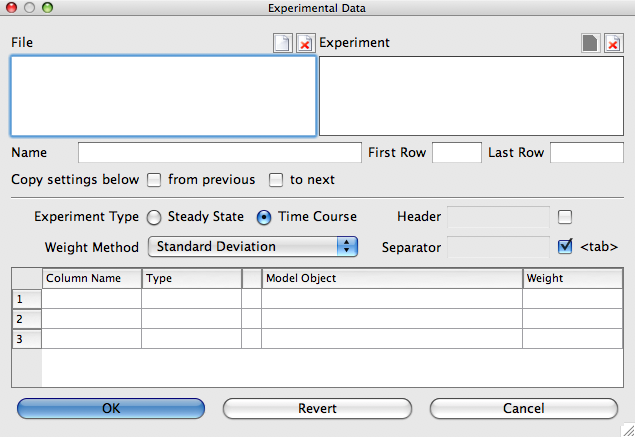
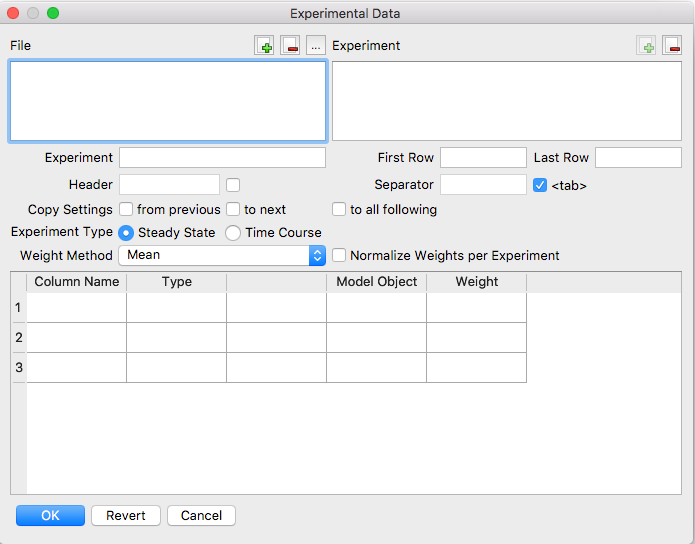
- updated parameter estimation screenshots and description

diff --git a/Support/User_Manual/Tasks/Parameter_Estimation/Experimental_Data/index.html b/Support/User_Manual/Tasks/Parameter_Estimation/Experimental_Data/index.html
@@ -4,31 +4,139 @@ title: "Experimental Data"
 structure: "User_Manual"
 ---
 
+<script src="https://polyfill.io/v3/polyfill.min.js?features=es6"></script>
+<script>
+MathJax = {
+  tex: {inlineMath: [['$', '$'], ['\\(', '\\)']]}
+};
+</script>
+<script type="text/javascript" id="MathJax-script" defer
+  src="https://cdn.jsdelivr.net/npm/mathjax@3/es5/tex-svg.js">
+</script>
+
+
 <div class="row">
   <div class="col-xs-12">
+    <p>
+    Before you can execute a parameter estimation task you need to specify the dataset which COPASI will use to fit the
+    parameters you have specified. Each experiment of your dataset contributes to the objective function with the
+    following weighted sum of squares:</p>
+    <p>
+    $$E(P)=\sum_{i,j}\omega_{j}\cdot(x_{i,j}-y_{i,j}(P))^{2}$$
+    </p>
+    <p>
+    Where $P$ is the currently tested parameter set, $x_{i,j}$ is a point in the dataset, and $y_{i,j}(P)$ the corresponding 
+    simulated value. The indices $i$ and $j$ denote rows and columns in the dataset. The weight for each data column is given 
+    by $\omega_{j}$. COPASI provides 4 methods shown in the table below
+    to calculate the weights for you. After applying the method chosen COPASI scales the weights so that for each
+    experiment the maximal occurring weight is $1$. In case that the weights calculated are not satisfactory you are able
+    to manually override them individually. To overwrite that behavior you can choose to check the 
+    <b>Normalize Weights per Experiment</b> option. </p>
 
-Before you can execute a parameter estimation task you need to specify the dataset which COPASI will use to fit the parameters you have specified. Each experiment of your dataset contributes to the objective function with the following weighted sum of squares:<br />
-<br />
-<div align="center"><img class="latex-equation" style="vertical-align: middle; position: relative; bottom: 0px; height: 31; width: 192;" src="eb78b7201ee92eb3ff71116d6f2bd4cf.png" alt="$E(P)=\sum_{i,j}\omega_{j}\cdot(x_{i,j}-y_{i,j}(P))^{2}$"></div><br />
-Where P is the currently tested parameter set, <img class="latex-equation" style="vertical-align: text-bottom; position: relative; bottom: -1px; height: 10; width: 20;" src="ed58f765f612d8bd1c29148e1379317e.png" alt="$x_{i,j}$"> is a point in the dataset, and <img class="latex-equation" style="vertical-align: text-bottom; position: relative; bottom: -1px; height: 14; width: 40;" src="4b1013af34add9d804564c43bee9fa22.png" alt="$y_{i,j}(P)$"> the corresponding simulated value. The indices <i>i</i> and <i>j</i> denote rows and columns in the dataset. The weight for each data column is given by <img class="latex-equation" style="vertical-align: text-bottom; position: relative; bottom: -1px; height: 10; width: 14;" src="04a32ea92aaa539d676e72f5c8e05a41.png" alt="$\omega_{j}$">. COPASI provides 3 methods shown in the table below to calculate the weights for you. After applying the method chosen COPASI scales the weights so that for each experiment the maximal occurring weight is 1. In case that the weights calculated are not satisfactory you are able to manually override them individually.<br />
-<br />
-<table class="table"><caption>Weight Calculation Methods</caption><colgroup><col width="20%" /><col width="80%" /></colgroup><tr><td class="heading">Name </td><td class="heading"> Formula</td></tr><tr><td class="odd">Mean </td><td class="odd"> <img class="latex-equation" style="vertical-align: middle; position: relative; bottom: 0px; height: 31; width: 84;" src="3efc52caa6088f48551d205488e067b2.png" alt="$\omega_{j}=\frac{1}{<x_{j}>^{2}}$"></td></tr><tr><td class="even">Mean Square </td><td class="even"> <img class="latex-equation" style="vertical-align: middle; position: relative; bottom: 0px; height: 33; width: 78;" src="36a495c9fb05c74e23a3d9a7b370e800.png" alt="$\omega_{j}=\frac{1}{<x_{j}^{2}>}$"></td></tr><tr><td class="odd">Standard Deviation </td><td class="odd"> <img class="latex-equation" style="vertical-align: middle; position: relative; bottom: 0px; height: 33; width: 183;" src="118b08dd852c74f8390e7e5bcd641b9f.png" alt="$\omega_{j}=\frac{1}{<x_{j}^{2}>-<x_{j}><x_{j}>}$"></td></tr></table><br />
-<br />
-To specify the experimental data you click on the Experimental Data button at the top right of the parameter estimation dialog. A new dialog opens that lets you enter experimental data.<br />
-<br />
-<div class="img" align="center"><table cellpadding="0" cellspacing="0"><tr><td><img alt="" src="ParameterEstimation_02.png" style="width:100%" border="0"  /></td></tr><tr><td class="mini">Experimental&nbsp;Data&nbsp;Dialog</td></tr></table></div><br />
-<br />
-To read a data file, click on the open button beside the label File at the top of the dialog and choose a file that contains experimental data from the file dialog. The data file should contain experimental data grouped in experiments. To support automatic detection of experiments these must be separated by one or more empty lines. But manually definition of experiments is allowed. The data for an experiment must be a table of values. The columns of the table are separated by a user specifiable separation character. The default and recommended character is the &lt;tab&gt;-character. The first line of each experiment is treated as the row containing the column headings. However, this is only a default and the header row can be specified by the user. The header row may be anywhere in the file the data is contained. The purpose of the header row is to ease the interface to the data file and may be omitted. To tell COPASI that no header row is included uncheck the box next to the header. Once COPASI has read a file, you have to specify some information for each experiment included in the file. To select an experiment you choose it from the right selection box. The first thing you need to specify is whether the data belongs to a Steady-State analysis or to a time course simulation. You also have to associate the individual columns of input data to elements of the model. For this, you click on the ... button in each row and select the corresponding object in the selection dialog. It is mandatory that COPASI knows about the meaning of each data column. The data in a column can have four different types, which are:<br />
-<dl><dt><b>ignored</b></dt><dd> Values in columns marked ignored are not taken into account during parameter fitting. Columns of this type may not be associated with elements of the model.</dd></dl><br />
-<dl><dt><b>independent</b></dt><dd> Independent data is data which needs to be set for the correct simulation of the experiment row. Possible model elements are initial concentrations or kinetic parameters. Note, for a time course experiment only the independent data in the first data row is set before the start of the simulation. Columns of this type must be associated with elements of the model.</dd></dl><br />
-<dl><dt><b>dependent</b></dt><dd> The dependent data is the data, which COPASI tries to fit by minimizing the sum of squares between the simulated data and the experimental data. Columns of this type must be associated with elements of the model.</dd></dl><br />
-<dl><dt><b>Time</b></dt><dd> This column type is only available for time course experiments. Obviously only one column with this data type may exist. COPASI attempts to automatically identify the column containing the time by looking at the column headers. You may correct COPASI's guess. This column may not be mapped to any model elements.</dd></dl><br />
-<br />
-The last column in each of the lines contains the weight for the specific data set. If it is calculated by COPASI (using one of the modes mentioned above) it is surrounded by brackets. If you want to change this value you have to remove the brackets and enter a different value. If you want to go back to automatically calculated values you can delete the content of the box completely and COPASI will return to automatically calculating the weight.<br />
-<br />
-If you don't want COPASI to use the whole dataset of an experiment, but only a subset, you can specify the start and end line for this subset. You also may delete experiments completely. If you do so, you may notice that the New Document will be enabled. Pressing it will add the first not used experiment of the currently active file. Since it is commonly the case that all experimental data within one file has the same format, COPASI allows you to copy information of experimental data from the previous to the current or form the current to the next experiment within a file by selecting from previous and to next. If COPASI detects that experimental data descriptions are identical it will automatically set the from previous check box and disable editing the current experiment. Should you want to modify it you will have to unmark the check box first.<br />
-<br />
-If you have more than one file, you can load additional data files and process them in the same manner. Once you are finished defining your datasets for the fitting, you close the data dialog with the OK button. Before you can start the parameter estimation process, you have to choose the method by which the fitting will be done and maybe set some method parameters. Most of the time, the default parameter values should do. The method choosing is done at the bottom of the dialog by selecting the method from the drop down list. For an explanation of the individual methods, please consult the methods section.<br />
-<br />
+
+    <table class="table table-striped" style="caption-side: top;">
+      <caption>Weight Calculation Methods</caption>
+      <thead>
+        <tr>
+          <th scope="col">Name</th>
+          <th scope="col">Formula</th>
+        </tr>
+      </thead>      
+      <colgroup>
+        <col width="20%" />
+        <col width="80%" />
+      </colgroup>
+      <tbody>
+      <tr>
+        <td>Mean </td>
+        <td> $\omega_{j}=\frac{1}{&lt;x_{j}&gt;^{2}}$</td>
+      </tr>
+      <tr>
+        <td>Mean Square </td>
+        <td> $\omega_{j}=\frac{1}{&lt;x_{j}^{2}&gt;}$</td>
+      </tr>
+      <tr>
+        <td>Standard Deviation </td>
+        <td> $\omega_{j}=\frac{1}{&lt;x_{j}^{2}&gt; - &lt;x_{j}&gt; &lt;x_{j}&gt;}$</td>
+      </tr>
+      <tr>
+        <td>Value Scaling</td>
+        <td></td>
+      </tr>
+    </tbody>
+    </table><br />
+    <br />
+    <p>
+    To specify the experimental data you click on the Experimental Data button at the top right of the parameter
+    estimation dialog. A new dialog opens that lets you enter experimental data.</p>
+    <div class="img" align="center">
+      <table cellpadding="0" cellspacing="0">
+        <tr>
+          <td><img alt="" src="ParameterEstimation_02.png" style="width:100%" border="0" /></td>
+        </tr>
+        <tr>
+          <td class="mini">Experimental&nbsp;Data&nbsp;Dialog</td>
+        </tr>
+      </table>
+    </div><br />
+    <br />
+    <p>
+    To read a data file, click on the open button beside the label File at the top of the dialog and choose a file that
+    contains experimental data from the file dialog. The data file should contain experimental data grouped in
+    experiments. To support automatic detection of experiments these must be separated by one or more empty lines. But
+    manually definition of experiments is allowed. The data for an experiment must be a table of values. The columns of
+    the table are separated by a user specifiable separation character. The default and recommended character is the
+    &lt;tab&gt;-character. The first line of each experiment is treated as the row containing the column headings.
+    However, this is only a default and the header row can be specified by the user. The header row may be anywhere in
+    the file the data is contained. The purpose of the header row is to ease the interface to the data file and may be
+    omitted. To tell COPASI that no header row is included uncheck the box next to the header. Once COPASI has read a
+    file, you have to specify some information for each experiment included in the file. To select an experiment you
+    choose it from the right selection box. The first thing you need to specify is whether the data belongs to a
+    Steady-State analysis or to a time course simulation. You also have to associate the individual columns of input
+    data to elements of the model. For this, you click on the ... button in each row and select the corresponding object
+    in the selection dialog. It is mandatory that COPASI knows about the meaning of each data column. The data in a
+    column can have four different types, which are:</p>
+    <dl class="row">
+      <dt class="col-sm-2"><b>ignored</b></dt>
+      <dd class="col-sm-10"> Values in columns marked ignored are not taken into account during parameter fitting. Columns of this type
+        may not be associated with elements of the model.</dd>
+
+      <dt class="col-sm-2"><b>independent</b></dt>
+      <dd class="col-sm-10"> Independent data is data which needs to be set for the correct simulation of the experiment row. Possible
+        model elements are initial concentrations or kinetic parameters. Note, for a time course experiment only the
+        independent data in the first data row is set before the start of the simulation. Columns of this type must be
+        associated with elements of the model.</dd>
+
+      <dt class="col-sm-2"><b>dependent</b></dt>
+      <dd class="col-sm-10"> The dependent data is the data, which COPASI tries to fit by minimizing the sum of squares between the
+        simulated data and the experimental data. Columns of this type must be associated with elements of the model.
+      </dd>
+
+      <dt class="col-sm-2"><b>Time</b></dt>
+      <dd class="col-sm-10"> This column type is only available for time course experiments. Obviously only one column with this data type
+        may exist. COPASI attempts to automatically identify the column containing the time by looking at the column
+        headers. You may correct COPASI's guess. This column may not be mapped to any model elements.</dd>
+    </dl>
+    <p>
+    The last column in each of the lines contains the weight for the specific data set. If it is calculated by COPASI
+    (using one of the modes mentioned above) it is surrounded by brackets. If you want to change this value you have to
+    remove the brackets and enter a different value. If you want to go back to automatically calculated values you can
+    delete the content of the box completely and COPASI will return to automatically calculating the weight.</p>
+    <p>
+    If you don't want COPASI to use the whole dataset of an experiment, but only a subset, you can specify the start and
+    end line for this subset. You also may delete experiments completely. If you do so, you may notice that the New
+    Document will be enabled. Pressing it will add the first not used experiment of the currently active file. Since it
+    is commonly the case that all experimental data within one file has the same format, COPASI allows you to copy
+    information of experimental data from the previous to the current or form the current to the next experiment within
+    a file by selecting from previous and to next. If COPASI detects that experimental data descriptions are identical
+    it will automatically set the from previous check box and disable editing the current experiment. Should you want to
+    modify it you will have to unmark the check box first.</p>
+    <p>
+    If you have more than one file, you can load additional data files and process them in the same manner. Once you are
+    finished defining your datasets for the fitting, you close the data dialog with the OK button. Before you can start
+    the parameter estimation process, you have to choose the method by which the fitting will be done and maybe set some
+    method parameters. Most of the time, the default parameter values should do. The method choosing is done at the
+    bottom of the dialog by selecting the method from the drop down list. For an explanation of the individual methods,
+    please consult the methods section.</p>
   </div>
 </div>

diff --git a/Support/User_Manual/Tasks/Parameter_Estimation/index.html b/Support/User_Manual/Tasks/Parameter_Estimation/index.html
@@ -7,12 +7,52 @@ structure: "User_Manual"
 <div class="row">
   <div class="col-xs-12">
 
-Parameter estimation is the process of trying to calculate model parameters based on a dataset. This dataset can be the result of time course or steady-state experiments or both. COPASI reads a dataset, which may be comprised of several files each including possibly multiple experiments. After the load of the dataset COPASI tries to fit one or more parameters that are specified by the user to that dataset. The methods COPASI uses to estimate good parameter values are the same as in the optimization task. For a description of the different methods, you should read the methods section of this document.<br />
-<br />
-<div class="img" align="center"><table cellpadding="0" cellspacing="0"><tr><td><img alt="" src="ParameterEstimation_01.png" style="width:100%" border="0"  /></td></tr><tr><td class="mini">Parameter&nbsp;Task&nbsp;Estimation&nbsp;Dialog</td></tr></table></div><br />
-<br />
-The dialog for the parameter estimation task can be activated by selecting the branch called Parameter Estimation under the Multiple Tasks branch of the tree view on the left side of the user interface. First you can define which parameters COPASI shall try to fit. Each parameter to be fitted can be added like in the Optimization. To do this, click on the button beside the line edit labeled Object, this will open a selection dialog where you can choose the parameter. Additionally you can specify an upper and a lower bound for the parameter. COPASI will only try to fit the parameter within those bounds. Per default, the upper and lower bound are + Infinity and - Infinity respectively. If you want to set your own bounds, disable the check boxes and enter your own value in the edit field. The value for the lower bound goes into the correspondingly labeled edit field, likewise for the upper bound. As a matter of convenience you may enter -X% or +X% as the lower and upper limits. This instructs COPASI to calculate the limits based on the start value. You can also specify other objects from the model as bounds for the parameter. To choose the value of another object as a bound for the parameter, click on the button beside the edit field and choose the object from the tree.  The start value is the initial parameter value used by COPASI in any fitting attempt. Per default COPASI selects the current model value of the parameter to be estimated as the starting value. You may manually override this default or use the ... to reset it to model values, randomize it, or set it to the last estimated values. Please note, if the start value of a parameter is outside the boundaries specified, COPASI will force it to the nearest boundary during th parameter estimation. Additionally, you can restrict the effect of a parameter to a subset of the experiments you are attempting to fit. To do this select the ... to the right of Affected Experiments. A possible application is to fit different initial values for each time course experiment. To help you in such a case the Duplicate for each Experiment button will create a copy of the current parameter for each specified experiment.<br />
-<br />
-{% include toc.html %}
+    Parameter estimation is the process of trying to calculate model parameters based on a dataset. This dataset can be
+    the result of time course or steady-state experiments or both. COPASI reads a dataset, which may be comprised of
+    several files each including possibly multiple experiments. After the load of the dataset COPASI tries to fit one or
+    more parameters that are specified by the user to that dataset. The methods COPASI uses to estimate good parameter
+    values are the same as in the optimization task. For a description of the different methods, you should read the
+    methods section of this document.<br />
+    <br />
+    <div class="img" align="center">
+      <table cellpadding="0" cellspacing="0">
+        <tr>
+          <td><img alt="" src="ParameterEstimation_01.png" style="width:100%" border="0" /></td>
+        </tr>
+        <tr>
+          <td class="mini">Parameter&nbsp;Task&nbsp;Estimation&nbsp;Dialog</td>
+        </tr>
+      </table>
+    </div><br />
+    <br />
+    <p>If the check box <b>Randomize Start Values</b> is checked, a random start value will be generated within the 
+      defined bounds for each parameter to be estimated.</p>
+    <p>If the check box <b>Create Parameter Sets</b> is checked, a new parameter set will be stored containing the 
+      best solution for each of the defined experiments, as well as the original parameterization. Each of the 
+      parametersets is marked with the current time stamp, and can be found under <br/> 
+      <i>Model-&gt;Biochemical-&gt;Parameter Sets</i></p>
+    <p>
+    The dialog for the parameter estimation task can be activated by selecting the branch called Parameter Estimation
+    under the Multiple Tasks branch of the tree view on the left side of the user interface. First you can define which
+    parameters COPASI shall try to fit. Each parameter to be fitted can be added like in the Optimization. To do this,
+    click on the button beside the line edit labeled Object, this will open a selection dialog where you can choose the
+    parameter. Additionally you can specify an upper and a lower bound for the parameter. COPASI will only try to fit
+    the parameter within those bounds. Per default, the upper and lower bound are + Infinity and - Infinity
+    respectively. If you want to set your own bounds, disable the check boxes and enter your own value in the edit
+    field. The value for the lower bound goes into the correspondingly labeled edit field, likewise for the upper bound.
+    As a matter of convenience you may enter -X% or +X% as the lower and upper limits. This instructs COPASI to
+    calculate the limits based on the start value. You can also specify other objects from the model as bounds for the
+    parameter. To choose the value of another object as a bound for the parameter, click on the button beside the edit
+    field and choose the object from the tree. The start value is the initial parameter value used by COPASI in any
+    fitting attempt. Per default COPASI selects the current model value of the parameter to be estimated as the starting
+    value. You may manually override this default or use the ... to reset it to model values, randomize it, or set it to
+    the last estimated values. Please note, if the start value of a parameter is outside the boundaries specified,
+    COPASI will force it to the nearest boundary during th parameter estimation. Additionally, you can restrict the
+    effect of a parameter to a subset of the experiments you are attempting to fit. To do this select the ... to the
+    right of Affected Experiments. A possible application is to fit different initial values for each time course
+    experiment. To help you in such a case the Duplicate for each Experiment button will create a copy of the current
+    parameter for each specified experiment.</p>
+    <br />
+    {% include toc.html %}
   </div>
 </div>

diff --git a/Support/User_Manual/Tasks/Parameter_Estimation/Result/index.html b/Support/User_Manual/Tasks/Parameter_Estimation/Result/index.html
@@ -7,11 +7,39 @@ structure: "User_Manual"
 <div class="row">
   <div class="col-xs-12">
 
-If you want to have output from the parameter estimation task, you have to create an output definition as described in the <a title="COPASI: Support/User Manual/Output" href="{{ site.baseurl }}/Support/User_Manual/Output/" >output</a> section or you choose the default report named &quot;Parameter Fitting&quot;. The default reports prints a description of the settings you provided for this parameter fitting run, intermediate results every time the target function improves, and a detailed result at the end.  The easiest way to get a customized output is probably to use the <a title="COPASI: Support/User Manual/Output/Output Assistant" href="{{ site.baseurl }}/Support/User_Manual/Output/Output_Assistant" >output assistant</a> which you activate via the Output Assistant button. All that is left to do in order to write the output to a specific file is to connect an output definition  with a file. This can be achieved by clicking on the Report button. This opens a dialog that lets you connect the report for a specific task to a file on your hard disk. First we choose a report that is suitable for the parameter estimation task from the drop down list at the top of the dialog. Next, we specify a file that will be used to store the report by clicking on the browse button and selecting the destination in the file dialog that opens. Per default, COPASI creates a new file or overwrites an existing file with the same name. Alternatively, you can tell COPASI to append the report to the end of an existing file by selecting the corresponding check box labeled Append at the bottom of the dialog. Once you are finished, you click on the Confirm button. If you now run the task, COPASI will write the output to the file you specified.<br />
-<br />
-<div class="img" align="center"><table cellpadding="0" cellspacing="0"><tr><td><img alt="" src="ParameterEstimation_05.png" style="width:100%" border="0"  /></td></tr><tr><td class="mini">Parameter&nbsp;Estimation&nbsp;Results</td></tr></table></div><br />
-<br />
-After running a Parameter Estimation task the result may be viewed by selecting the Result widget. This result widget contains multiple tabs. The overall fit and performance statistic are displayed in the Main and detailed information about parameters, experiments, and fitted values can be found under the corresponding tabs. In addition, you may look at the correlation matrix of the parameters or the Fisher information matrix.<br />
-<br />
+    If you want to have output from the parameter estimation task, you have to create an output definition as described
+    in the <a title="COPASI: Support/User Manual/Output"
+      href="{{ site.baseurl }}/Support/User_Manual/Output/">output</a> section or you choose the default report named
+    &quot;Parameter Fitting&quot;. The default reports prints a description of the settings you provided for this
+    parameter fitting run, intermediate results every time the target function improves, and a detailed result at the
+    end. The easiest way to get a customized output is probably to use the <a
+      title="COPASI: Support/User Manual/Output/Output Assistant"
+      href="{{ site.baseurl }}/Support/User_Manual/Output/Output_Assistant">output assistant</a> which you activate via
+    the Output Assistant button. All that is left to do in order to write the output to a specific file is to connect an
+    output definition with a file. This can be achieved by clicking on the Report button. This opens a dialog that lets
+    you connect the report for a specific task to a file on your hard disk. First we choose a report that is suitable
+    for the parameter estimation task from the drop down list at the top of the dialog. Next, we specify a file that
+    will be used to store the report by clicking on the browse button and selecting the destination in the file dialog
+    that opens. Per default, COPASI creates a new file or overwrites an existing file with the same name. Alternatively,
+    you can tell COPASI to append the report to the end of an existing file by selecting the corresponding check box
+    labeled Append at the bottom of the dialog. Once you are finished, you click on the Confirm button. If you now run
+    the task, COPASI will write the output to the file you specified.<br />
+    <br />
+    <div class="img" align="center">
+      <table cellpadding="0" cellspacing="0">
+        <tr>
+          <td><img alt="" src="ParameterEstimation_05.png" style="width:100%" border="0" /></td>
+        </tr>
+        <tr>
+          <td class="mini">Parameter&nbsp;Estimation&nbsp;Results</td>
+        </tr>
+      </table>
+    </div><br />
+    <br />
+    After running a Parameter Estimation task the result may be viewed by selecting the Result widget. This result
+    widget contains multiple tabs. The overall fit and performance statistic are displayed in the Main and detailed
+    information about parameters, experiments, and fitted values can be found under the corresponding tabs. In addition,
+    you may look at the correlation matrix of the parameters or the Fisher information matrix.<br />
+    <br />
   </div>
 </div>
